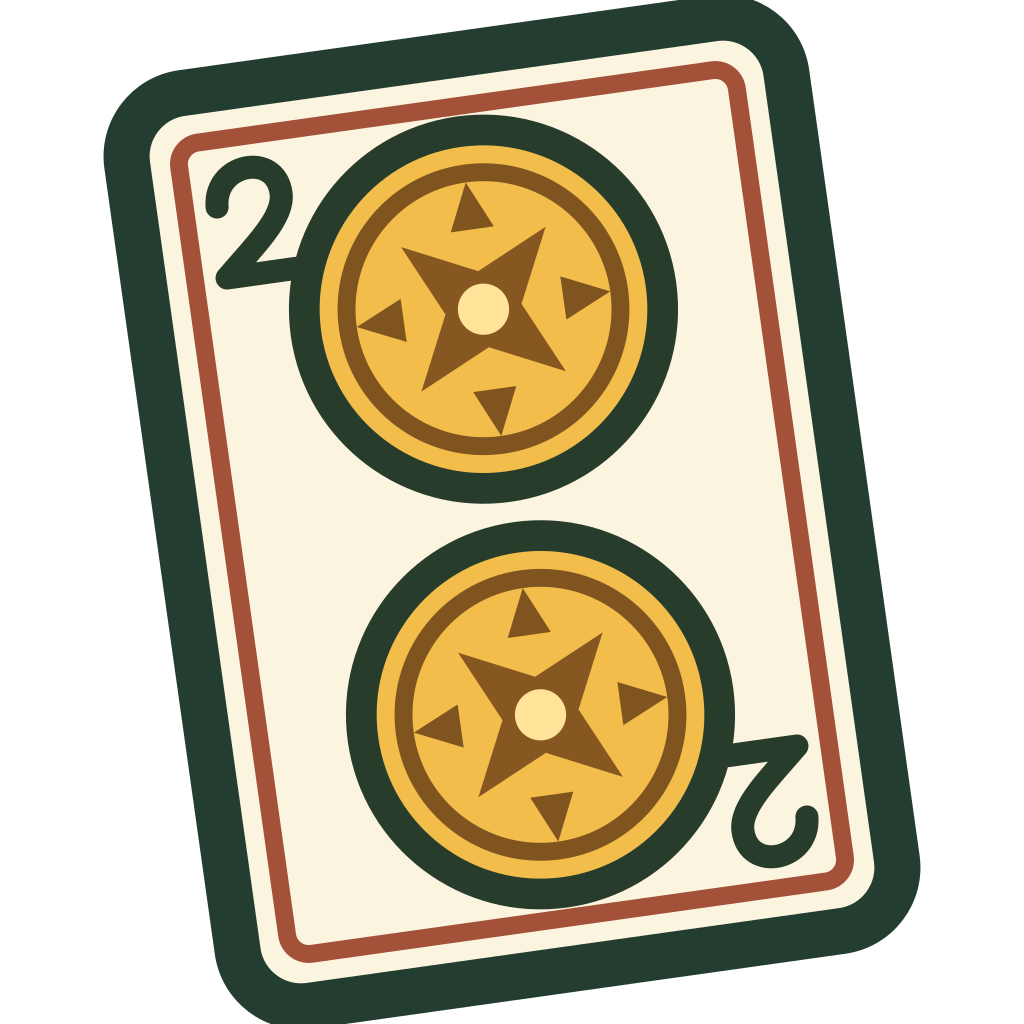
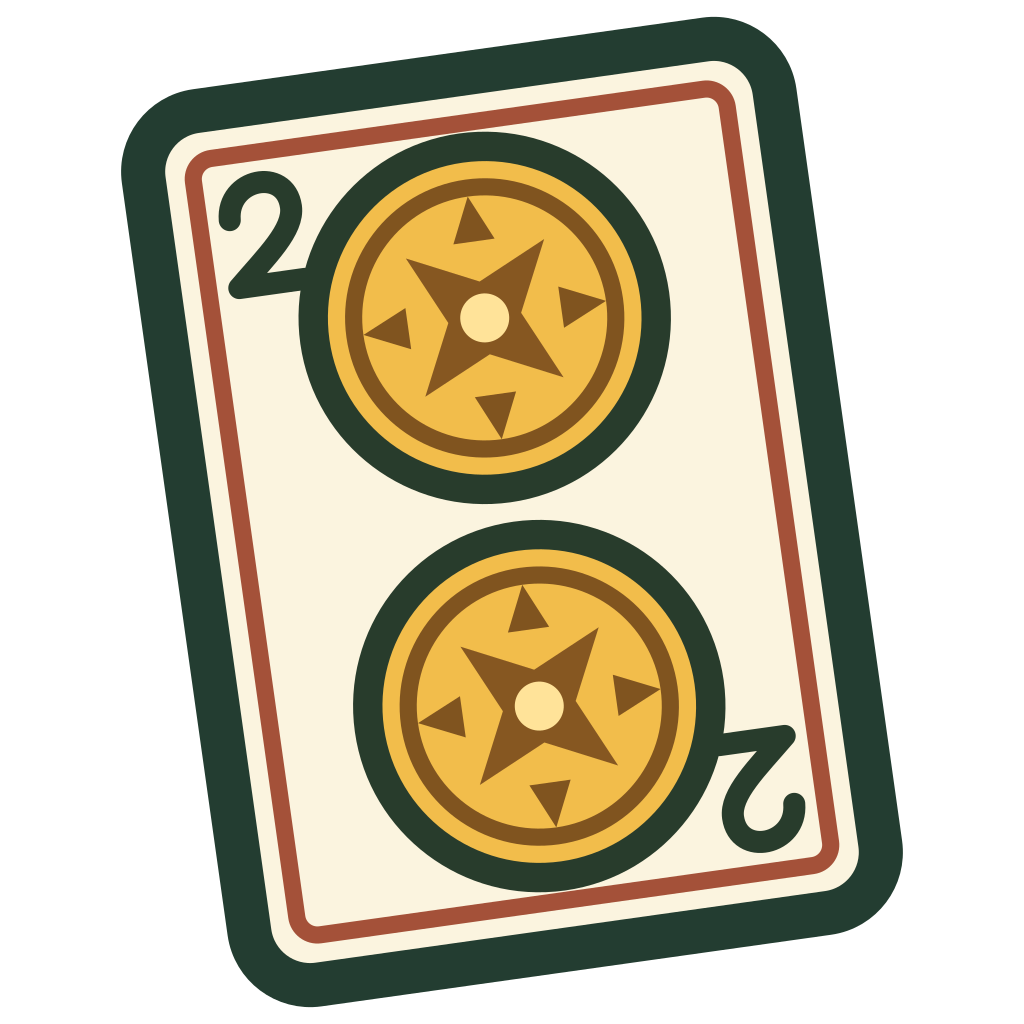
Evitar el recorte de la carta girada y documentar los builds de tienda

Changed region(s): [[0.0938, 0.0, 0.9062, 1.0], [0.625, 0.5312, 0.6562, 0.5625], [0.3438, 0.4375, 0.375, 0.4688]]

diff --git a/app/README.md b/app/README.md
@@ -24,3 +24,11 @@ npm --workspace app run android   # build de desarrollo en Android (requiere And
 ```
 
 En las apps, la API es `https://eltru.co`. Para la pila local, definí `EXPO_PUBLIC_API_URL=http://localhost:8081` (en Android, `http://10.0.2.2:8081`) y usá otro puerto para Metro, que también toma el 8081: `npm --workspace app run ios -- --port 8082`. La web exportada se prueba con la pila: `docker compose up --build` y `http://localhost:8081/app/`.
+
+## Versión, íconos y pantalla de inicio
+
+- **Versión:** la visible (`version`) está en `app.json` y se cambia a mano. El número de build (`ios.buildNumber` y `android.versionCode`) lo agrega `app.config.ts` con `git rev-list --count HEAD`, así que crece con cada commit de `main`. En un checkout sin historia completa, definí `TRUCO_BUILD=<número>`; sin git (la imagen de Docker de la web) queda en 1 y no se usa.
+- **Íconos:** `npm run app:iconos` (desde la raíz) genera `assets/icono/` a partir de `public/favicon.svg` con `scripts/app-iconos.mjs` y sharp, sin servicios externos. Salen el ícono de iOS (1024×1024, opaco), el adaptativo de Android (frente, fondo y monocromático), el favicon de la web y la carta de la pantalla de inicio. Si cambia la marca, editá el SVG y volvé a generar; `tests/unit/app-builds.test.ts` comprueba tamaños y transparencia.
+- **Pantalla de inicio:** `expo-splash-screen` muestra la carta sobre el papel crema y `src/app/_layout.tsx` la mantiene hasta que cargan las tipografías.
+- **Permisos:** `android.blockedPermissions` saca almacenamiento, superposición, micrófono, cámara y ubicación; `expo-audio` va sin micrófono ni audio en segundo plano y `expo-secure-store` sin Face ID. Quedan `INTERNET`, `VIBRATE` (hápticos) y `MODIFY_AUDIO_SETTINGS` (sonido), que no piden confirmación. Para revisar lo que pide un build: `npx expo prebuild --clean` en una copia descartable y mirá `AndroidManifest.xml` e `Info.plist`.
+- Si `pod install` falla con `Unicode Normalization not appropriate for ASCII-8BIT`, exportá `LANG=en_US.UTF-8`.
